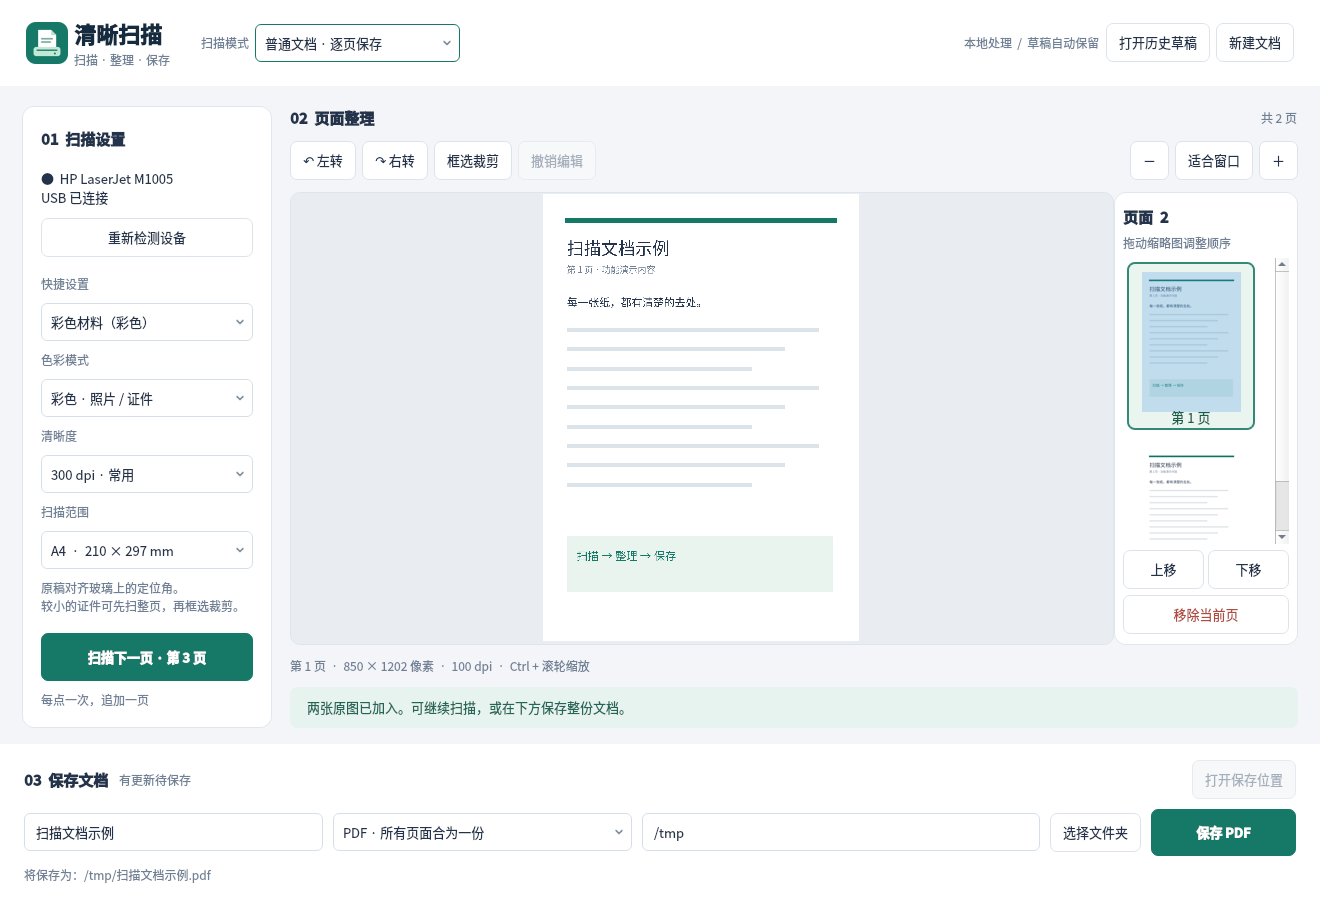
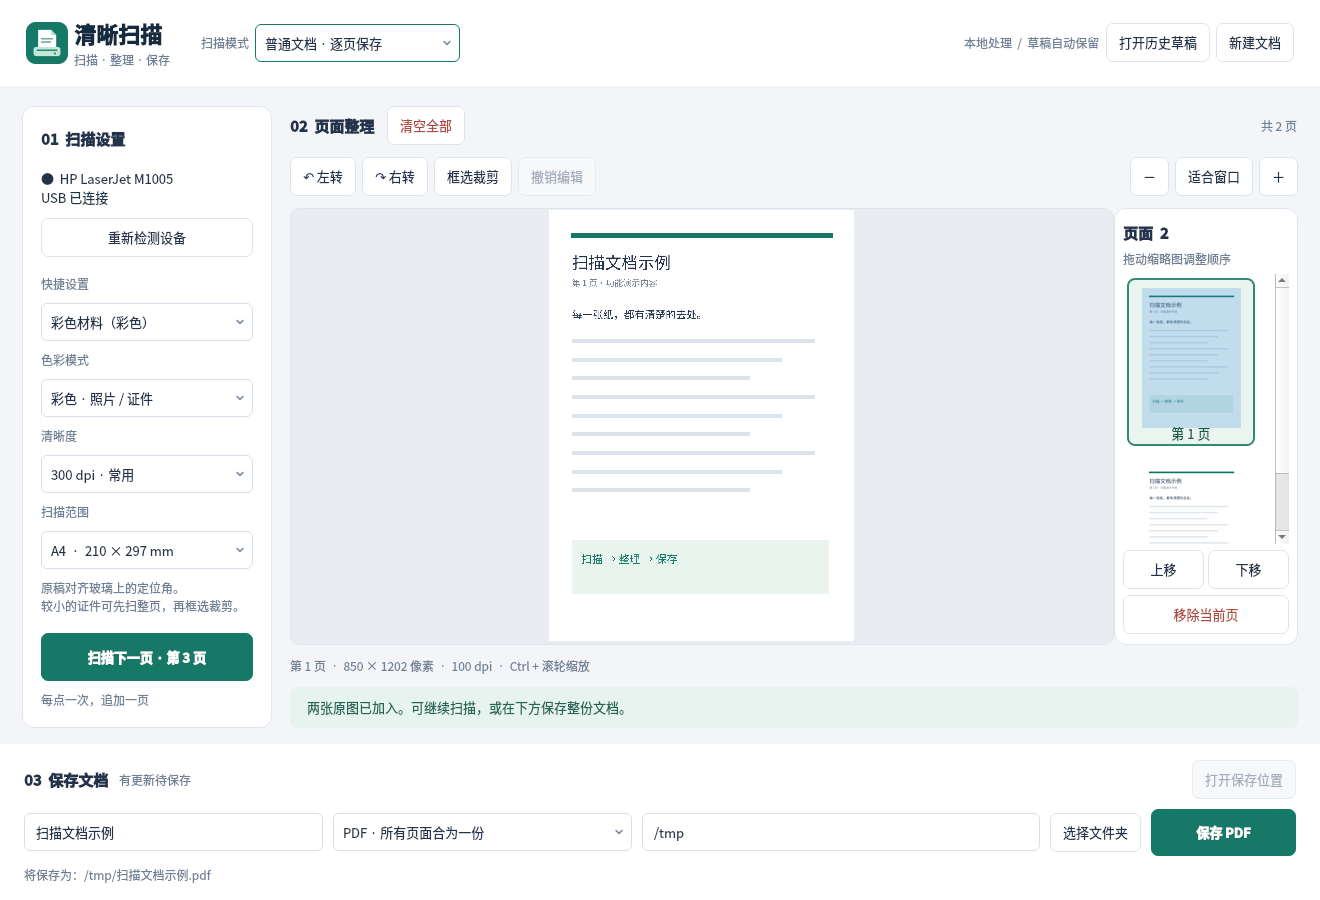
fix: add clear-all action with grouped undo and fresh scan state

diff --git a/app.py b/app.py
@@ -355,6 +355,9 @@ class Window(QMainWindow):
         self.composite_btn = button('查看合页效果', self.toggle_composite)
         self.composite_btn.setCheckable(True)
         title_row.addWidget(self.composite_btn)
+        self.clear_btn = button('清空全部', self.clear_document, 'danger')
+        self.clear_btn.setToolTip('清空当前文档的全部页面，保留扫描设置和保存位置；可撤销。')
+        title_row.addWidget(self.clear_btn)
         title_row.addStretch()
         self.count = label('尚未扫描', 'muted')
         title_row.addWidget(self.count)
@@ -551,7 +554,10 @@ class Window(QMainWindow):
         self.rescan_btn.setEnabled(selected and ready)
         self.page_actions.setEnabled(selected and not self.busy)
         self.remove_btn.setEnabled(selected and not self.busy)
+        self.clear_btn.setEnabled(count > 0 and not self.busy)
         self.restore_btn.setEnabled(not self.busy)
+        self.restore_btn.setVisible(bool(self.removed))
+        self.restore_btn.setText('撤销清空' if self.removed and self.removed[-1].get('cleared') else '撤销移除')
         self.undo_btn.setEnabled(selected and bool(self.current_page().operations) and not self.busy and not self.composite_btn.isChecked())
         self.export_btn.setEnabled(count > 0 and not self.busy and (layout != 'card' or count == 2))
         self.open_btn.setEnabled(bool(self.session.last_export))
@@ -718,6 +724,9 @@ class Window(QMainWindow):
             except Exception as error:
                 self.message('页面读取失败：' + str(error), True)
         else:
+            self.view.scene().clear()
+            self.view.picture = None
+            self.view.resetTransform()
             self.page_info.setText('预览区支持 Ctrl + 滚轮缩放')
         self.composite_btn.setText('返回原图编辑' if self.composite_btn.isChecked() else '查看合页效果')
         self.update_state()
@@ -772,20 +781,50 @@ class Window(QMainWindow):
         page = self.current_page()
         if page:
             index = self.session.pages.index(page)
-            self.removed.append((index, page))
+            self.removed.append({'pages': [(index, page)]})
             self.session.pages.pop(index)
-            self.restore_btn.show()
             self.remember(True)
             self.rebuild_pages()
             self.message('已从文档中移除该页。需要恢复时点击“撤销移除”。')
 
+    def clear_document(self):
+        if self.busy or not self.session.pages:
+            return
+        self.autosave.stop()
+        selected = self.current_page()
+        count = len(self.session.pages)
+        previous_name = self.name.text()
+        self.removed.append({'pages': list(enumerate(self.session.pages)), 'cleared': True,
+                             'name': previous_name, 'last_export': self.session.last_export,
+                             'selected': selected.id if selected else None})
+        self.session.pages = []
+        self.session.last_export = ''
+        self.session.exported_revision = -1
+        self.composite_btn.setChecked(False)
+        base = self.default_name()
+        new_name, suffix = base, 2
+        extension = '.pdf' if self.format.currentData() == 'pdf' else ''
+        folder = Path(self.directory.text()).expanduser()
+        while new_name == previous_name or (folder / (new_name + extension)).exists():
+            new_name = base + '_' + str(suffix)
+            suffix += 1
+        self.name.setText(new_name)
+        self.remember(True)
+        self.rebuild_pages()
+        self.message('已清空 {} 页，可以开始下一份扫描。误操作可点右侧“撤销清空”恢复；已保存的文件保留。'.format(count))
+
     def restore(self):
-        if self.removed:
-            index, page = self.removed.pop()
-            self.session.pages.insert(min(index, len(self.session.pages)), page)
-            self.restore_btn.setVisible(bool(self.removed))
+        if self.removed and not self.busy:
+            entry = self.removed.pop()
+            was_empty = not self.session.pages
+            for index, page in entry['pages']:
+                self.session.pages.insert(min(index, len(self.session.pages)), page)
+            if entry.get('cleared') and was_empty:
+                self.name.setText(entry['name'])
+                self.session.last_export = entry['last_export']
             self.remember(True)
-            self.rebuild_pages(page.id)
+            self.rebuild_pages(entry.get('selected') or entry['pages'][-1][1].id)
+            self.message('已恢复清空前的全部页面。' if entry.get('cleared') else '已恢复移除的页面。')
 
     def set_busy(self, busy):
         self.busy = busy

diff --git a/test_app.py b/test_app.py
@@ -403,6 +403,82 @@ class GuiTests(unittest.TestCase):
         window.load_settings()
         self.assertEqual(window.layout_combo.currentData(), 'single')
 
+    def test_clear_all_and_undo_preserve_export_settings_and_edits(self):
+        window = self.window
+        self.scan()
+        window.crop([20, 30, 500, 600])
+        self.scan()
+        window.rotate(True)
+        window.move(-1)
+        ids = [page.id for page in window.session.pages]
+        operations = json.loads(json.dumps([page.operations for page in window.session.pages]))
+        window.directory.setText(str(self.root))
+        window.name.setText('已保存材料')
+        window.export_btn.click()
+        self.pump(lambda: not window.busy)
+        saved = self.root / '已保存材料.pdf'
+        content = saved.read_bytes()
+        selected = window.current_page().id
+        window.clear_btn.click()
+        self.assertEqual(window.session.pages, [])
+        self.assertEqual(window.pages_list.count(), 0)
+        self.assertEqual(window.stack.currentIndex(), 0)
+        self.assertEqual(window.view.scene().items(), [])
+        self.assertIsNone(window.view.picture)
+        self.assertFalse(window.export_btn.isEnabled())
+        self.assertFalse(window.clear_btn.isEnabled())
+        self.assertFalse(window.open_btn.isEnabled())
+        self.assertEqual(window.scan_btn.text(), '扫描第 1 页')
+        self.assertEqual(window.directory.text(), str(self.root))
+        self.assertNotEqual(window.name.text(), '已保存材料')
+        self.assertEqual(Session(self.root / 'data').pages, [])
+        self.assertEqual(saved.read_bytes(), content)
+        self.assertEqual(window.restore_btn.text(), '撤销清空')
+        window.restore_btn.click()
+        self.assertEqual([page.id for page in window.session.pages], ids)
+        self.assertEqual([page.operations for page in window.session.pages], operations)
+        self.assertEqual(window.current_page().id, selected)
+        self.assertEqual(window.name.text(), '已保存材料')
+        self.assertEqual(window.session.last_export, str(saved))
+        self.assertEqual(saved.read_bytes(), content)
+
+    def test_clear_card_preview_and_scan_again_with_busy_guard(self):
+        window = self.window
+        window.layout_combo.setCurrentIndex(1)
+        self.scan()
+        self.scan()
+        original = [page.id for page in window.session.pages]
+        window.composite_btn.click()
+        window.set_busy(True)
+        self.assertFalse(window.clear_btn.isEnabled())
+        window.clear_document()
+        self.assertEqual([page.id for page in window.session.pages], original)
+        window.set_busy(False)
+        window.clear_btn.click()
+        self.assertFalse(window.composite_btn.isChecked())
+        self.assertEqual(window.layout_combo.currentData(), 'card')
+        self.assertEqual(window.paper.currentData(), (100, 70))
+        self.assertEqual(window.scan_btn.text(), '扫描正面')
+        self.assertTrue(window.scan_btn.isEnabled())
+        self.scan()
+        self.assertEqual(len(window.session.pages), 1)
+        self.assertNotIn(window.session.pages[0].id, original)
+        self.assertEqual(len(Session(self.root / 'data').pages), 1)
+
+    def test_clear_undo_is_one_action_after_individual_removal(self):
+        window = self.window
+        for _ in range(3):
+            self.scan()
+        original = [page.id for page in window.session.pages]
+        window.pages_list.setCurrentRow(1)
+        window.remove_btn.click()
+        window.clear_btn.click()
+        window.restore_btn.click()
+        self.assertEqual([page.id for page in window.session.pages], [original[0], original[2]])
+        self.assertEqual(window.restore_btn.text(), '撤销移除')
+        window.restore_btn.click()
+        self.assertEqual([page.id for page in window.session.pages], original)
+
 
 if __name__ == '__main__':
     unittest.main(verbosity=2)

diff --git a/build_dist.py b/build_dist.py
@@ -9,7 +9,7 @@ import tarfile
 import tempfile
 from pathlib import Path
 
-VERSION = '1.1.0'
+VERSION = '1.1.1'
 RELEASE = '清晰扫描_v{}_UOS分发包'.format(VERSION)
 DEB = 'qingxi-scan_{}_all.deb'.format(VERSION)
 SOURCE = Path(__file__).resolve().parent

diff --git a/README.md b/README.md
@@ -31,13 +31,14 @@
 | 复印身份证正反面 | 按提示扫两面，预览后保存为同一页 A4 PDF |
 | 整理户口本 | 按扫描顺序，每两页上下合排为一页 A4 |
 | 明确文件存到哪里 | 保存前显示完整路径；已有同名文件会保留并提示改名 |
+| 开始下一份材料 | 点击“清空全部”，保留扫描设置和保存位置，当前窗口内可以撤销 |
 | 下次接着处理 | 本地自动保留草稿，可打开历史草稿继续编辑 |
 
 ## 下载与安装
 
 **已验证的运行环境：统信 UOS Desktop 20 E，x86_64；扫描设备：通过 USB 连接的 HP LaserJet M1005。** 其他系统版本和硬件架构尚未验证，目前不提供 Windows、macOS 或其他扫描仪的支持。
 
-1. 打开 [最新版本](https://github.com/realstephenxu/qingxi-scan/releases/latest)，下载 `qingxi-scan_1.1.0_all.deb`。需要说明和源码时，可下载完整分发压缩包。
+1. 打开 [最新版本](https://github.com/realstephenxu/qingxi-scan/releases/latest)，下载 `qingxi-scan_1.1.1_all.deb`。需要说明和源码时，可下载完整分发压缩包。
 2. 双击 DEB 文件，使用系统安装器完成安装。缺少运行组件时需要联网，让系统安装依赖。
 3. 打开 M1005 电源，接好 USB，在启动器搜索 **“清晰扫描”**。
 
@@ -49,7 +50,7 @@
 在安装包所在文件夹打开终端：
 
 ```bash
-sudo apt install ./qingxi-scan_1.1.0_all.deb
+sudo apt install ./qingxi-scan_1.1.1_all.deb
 ```
 
 安装后也可以输入 `qingxi-scan` 启动。
@@ -104,6 +105,10 @@ sudo apt install ./qingxi-scan_1.1.0_all.deb
 ### 找不到扫描仪，或者提示设备被占用？
 
 确认 M1005 已开机、USB 连接正常，关闭其他扫描软件，再点击 **“重新检测设备”**。如果其他扫描软件也无法使用，需要先检查系统驱动或 USB 权限；本程序不会代替系统安装厂商驱动。
+
+### 扫完之后，怎么清空并重新开始？
+
+点击“页面整理”旁的 **“清空全部”**，即可移除当前文档的所有页面，重新生成文件名，并保留扫描模式、清晰度和保存文件夹。已导出的 PDF、图片不会被删除。误清空时，在当前窗口点击右侧 **“撤销清空”**，可一次恢复原来的页面顺序和编辑。
 
 ### 关闭窗口后，刚才扫的内容还在吗？
 

diff --git a/使用说明.md b/使用说明.md
@@ -1,10 +1,14 @@
-# 清晰扫描 v1.1.0
+# 清晰扫描 v1.1.1
 
 面向统信 UOS 与 HP LaserJet M1005 的本地桌面工具。
 
 1. 放好原稿。在左侧选色彩、清晰度和扫描范围，点击“扫描第 1 页”。
 2. 换原稿后点“扫描下一页”。在中间预览、旋转、框选裁剪；右侧拖动缩略图或用上移、下移调整顺序。编辑可以撤销，移除页面后也可撤销。
 3. 下方填文件名、选格式和文件夹。核对显示的完整路径，点击保存。PDF 将所有页面合成一份；JPG/PNG 会新建以文件名命名的文件夹，里面依次为 001、002 等图片。同名文件不会覆盖。
+
+## 清空当前扫描
+
+扫描完成后，点击“页面整理”旁的“清空全部”，即可清空当前文档的所有页面，并生成新的文件名。扫描模式、清晰度和保存文件夹保持不变；已导出的 PDF 或图片保留。在当前窗口点击右侧“撤销清空”，可以一次恢复清空前的页序和编辑。
 
 ## 身份证正反面合页
 
@@ -28,10 +32,10 @@
 
 ## 安装和启动
 
-解压分发包后，双击 `qingxi-scan_1.1.0_all.deb`，通过系统安装器安装。缺少依赖时需要联网，由系统安装器或软件包管理器安装依赖。也可在 DEB 文件所在文件夹打开终端：
+解压分发包后，双击 `qingxi-scan_1.1.1_all.deb`，通过系统安装器安装。缺少依赖时需要联网，由系统安装器或软件包管理器安装依赖。也可在 DEB 文件所在文件夹打开终端：
 
 ```sh
-sudo apt install ./qingxi-scan_1.1.0_all.deb
+sudo apt install ./qingxi-scan_1.1.1_all.deb
 ```
 
 安装后在启动器搜索“清晰扫描”，或运行 `qingxi-scan`。安装过程不更改系统扫描配置、不包含本机扫描资料；卸载软件也不会主动清理个人草稿。扫描功能依赖 SANE 中的 `hpljm1005` 驱动，以及系统授予当前用户的 USB 扫描权限；新电脑仍需接好 M1005 并确认驱动可用。
